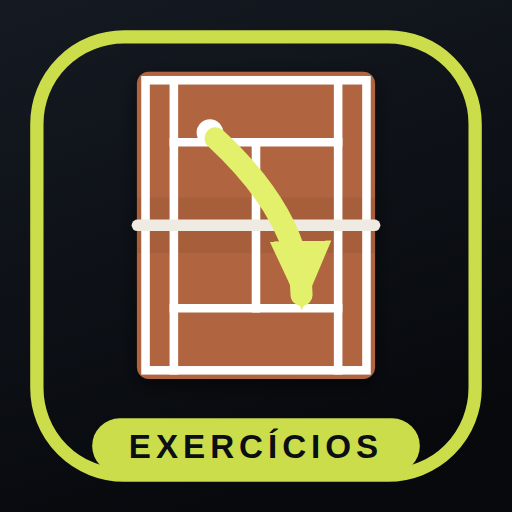
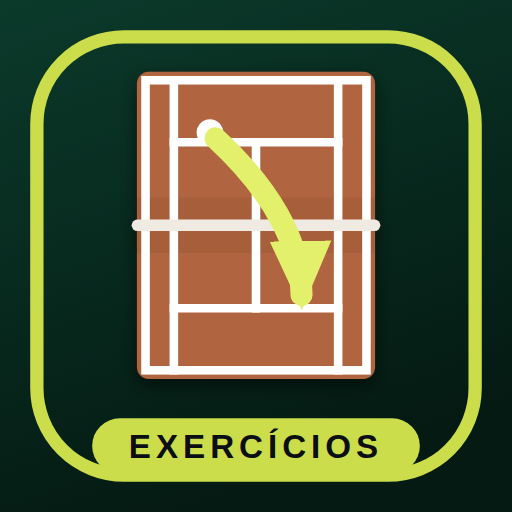
App de Exercicios no verde premium (tela, icone e abertura)
As cores do app passam para o verde premium da Gestao e do App Aluno: fundo
#06140F/#041A13, cartoes #072A1F/#0B3A2B, dourado #E8B83E e creme #EEF2E5.
O texto secundario sobe de .42 para .62 de opacidade (dava 3,3:1 sobre o
cartao, abaixo do minimo de 4,5:1); os chips de filtro e a busca ganham 40 px
de altura de toque. Icone com fundo verde (mesma moldura e pastilha limao) e
splash no mesmo verde. theme-color e manifest em #06140F. Cache v22.

A folha A4 nao muda: ela tem as cores proprias do modelo.

Claude-Session: https://claude.ai/code/session_014FKkHpNzg71Vb3bUZ4TcyT

Changed region(s): [[0.0, 0.0, 1.0, 0.5938]]

diff --git a/app-exercicios/index.html b/app-exercicios/index.html
@@ -5,7 +5,7 @@
 <meta name="viewport" content="width=device-width, initial-scale=1.0, viewport-fit=cover">
 <title>Banco de Exercícios JV · Da Base ao Topo</title>
 <meta name="description" content="Banco de exercícios da metodologia Da Base ao Topo: filtra por tema do mês, nível do aluno, bloco da aula e necessidade específica — e monta o plano de aula.">
-<meta name="theme-color" content="#102438">
+<meta name="theme-color" content="#06140F">
 <!-- Ferramenta interna do professor, não página de venda: fora do Google.
      O conteúdo do banco é o miolo da formação (produto pago) — ver LEIA-ME.md. -->
 <meta name="robots" content="noindex,nofollow">
@@ -32,11 +32,14 @@
 <meta name="apple-mobile-web-app-title" content="Exercícios JV">
 <style>
 :root{
-  --navy:#102438; --navy-2:#15304A; --navy-3:#1C3F5E; --deep:#0B1B2B;
-  --gold:#D8B45C; --gold-2:#C49A3F; --gold-soft:#E7CE93;
-  --cream:#F4EFE6; --ink:#21303D;
-  --muted:rgba(244,239,230,.62); --muted-2:rgba(244,239,230,.42);
-  --line:rgba(216,180,92,.22); --line-2:rgba(244,239,230,.12);
+  /* verde premium JV — o mesmo da Gestão e do App Aluno (fundo #06140F,
+     dourado #E8B83E). Os nomes das variáveis ficaram "navy" por história. */
+  --navy:#072A1F; --navy-2:#0B3A2B; --navy-3:#105039; --deep:#041A13;
+  --gold:#E8B83E; --gold-2:#C9982A; --gold-soft:#F2CF62;
+  --cream:#EEF2E5; --ink:#10261E;
+  /* texto secundário: .42 dava 3,3:1 sobre o cartão — abaixo do mínimo */
+  --muted:rgba(238,242,229,.74); --muted-2:rgba(238,242,229,.62);
+  --line:rgba(232,184,62,.24); --line-2:rgba(238,242,229,.14);
   --ok:#7FA650; --warn:#E0784A; --r:14px;
   --topo:env(safe-area-inset-top,0px); --base:env(safe-area-inset-bottom,0px);
 }
@@ -57,7 +60,7 @@ input,select{font:inherit}
 
 /* ---------- barra de cima ---------- */
 header.bar{
-  position:sticky;top:0;z-index:50;background:rgba(11,27,43,.97);
+  position:sticky;top:0;z-index:50;background:rgba(4,26,19,.97);
   backdrop-filter:saturate(140%) blur(10px);border-bottom:1px solid var(--line);
   padding-top:var(--topo);
 }
@@ -97,7 +100,7 @@ header.bar{
   padding:9px 16px;scrollbar-width:none;-webkit-overflow-scrolling:touch}
 .tira::-webkit-scrollbar{display:none}
 .tira.centro{max-width:900px;margin:0 auto}
-.chip{flex-shrink:0;padding:8px 14px;border-radius:999px;border:1px solid var(--line-2);
+.chip{flex-shrink:0;min-height:40px;padding:8px 14px;border-radius:999px;border:1px solid var(--line-2);
   font-size:13px;font-weight:600;color:var(--muted);white-space:nowrap;background:var(--navy-2);
   line-height:1.25;text-align:center}
 .chip:active{transform:scale(.96)}
@@ -109,7 +112,7 @@ header.bar{
 .chip.agora::after{content:"• agora";margin-left:6px;font-size:10px;font-weight:800;letter-spacing:.06em}
 
 .filtros{position:sticky;top:calc(58px + var(--topo));z-index:40;
-  background:rgba(16,36,56,.97);backdrop-filter:blur(8px);border-bottom:1px solid var(--line-2)}
+  background:rgba(7,42,31,.97);backdrop-filter:blur(8px);border-bottom:1px solid var(--line-2)}
 /* Painel de filtros aberto: a barra para de ser fixa. Fixa em cima, fixa em
    baixo e painel aberto nao cabem num celular pequeno — o primeiro exercicio
    fica entalado e o dedo nao alcanca. Aberta, ela rola embora. */
@@ -117,7 +120,7 @@ header.bar{
 .busca-linha{display:flex;gap:9px;padding:9px 16px 0;max-width:900px;margin:0 auto}
 .busca{flex:1;display:flex;align-items:center;gap:9px;background:var(--navy-2);
   border:1px solid var(--line-2);border-radius:12px;padding:0 13px;height:44px}
-.busca input{flex:1;background:none;border:none;color:var(--cream);font-size:15.5px;outline:none;min-width:0}
+.busca input{min-height:40px;flex:1;background:none;border:none;color:var(--cream);font-size:15.5px;outline:none;min-width:0}
 .busca input::placeholder{color:var(--muted-2)}
 .mais{height:44px;padding:0 15px;border-radius:12px;border:1px solid var(--line-2);
   background:var(--navy-2);font-size:13.5px;font-weight:700;color:var(--muted);white-space:nowrap}
@@ -219,7 +222,7 @@ header.bar{
 
 /* ---------- barra de baixo ---------- */
 .rodape{position:fixed;left:0;right:0;bottom:0;z-index:55;
-  background:rgba(11,27,43,.98);backdrop-filter:blur(10px);border-top:1px solid var(--line);
+  background:rgba(4,26,19,.98);backdrop-filter:blur(10px);border-top:1px solid var(--line);
   padding:10px 16px calc(10px + var(--base))}
 .rodape-in{max-width:900px;margin:0 auto;display:flex;gap:10px;align-items:center}
 .btn{display:inline-flex;align-items:center;justify-content:center;gap:8px;font-weight:800;
@@ -236,7 +239,7 @@ header.bar{
    endereco escondida, entao a folha passava por baixo da barra de baixo do
    navegador e o botao "por no plano" ficava fora do alcance do dedo. */
 .fundo{position:fixed;inset:0;height:100vh;height:100dvh;z-index:60;
-  background:rgba(6,14,23,.72);display:none;align-items:flex-end;justify-content:center}
+  background:rgba(2,12,8,.74);display:none;align-items:flex-end;justify-content:center}
 .fundo.aberto{display:flex}
 /* overscroll-behavior:contain — chegando no fim da folha, o arrasto para ali
    em vez de continuar rolando a lista atras dela. */
@@ -278,7 +281,7 @@ header.bar{
   padding-top:12px;border-top:1px solid var(--line-2)}
 
 /* ---------- card de treino: o desenho e o passo a passo ---------- */
-.qd-cx{border:1px solid var(--line);border-radius:13px;overflow:hidden;margin-bottom:16px;background:#0E2337}
+.qd-cx{border:1px solid var(--line);border-radius:13px;overflow:hidden;margin-bottom:16px;background:var(--navy-2)}
 .qd{display:block;width:100%}
 .qd-leg{display:flex;flex-wrap:wrap;gap:7px 13px;padding:9px 11px;background:var(--navy-2);
   font-size:10.5px;color:var(--muted);border-top:1px solid var(--line-2)}
@@ -295,7 +298,7 @@ header.bar{
 /* A frase que conta o que o desenho mostra. Existe para os 116 exercicios e
    estava so' no aria-label, invisivel para quem enxerga. */
 .qd-desc{font-size:14.5px;line-height:1.5;color:#F0E9DC;padding:12px;
-  background:rgba(216,180,92,.08);border-top:1px solid var(--line-2)}
+  background:rgba(232,184,62,.07);border-top:1px solid var(--line-2)}
 .qd-nota{font-size:12.5px;color:var(--muted);padding:9px 11px;background:var(--deep);
   border-top:1px solid var(--line-2);line-height:1.45}
 

diff --git a/ferramentas/gerar-icone-exercicios.js b/ferramentas/gerar-icone-exercicios.js
@@ -3,9 +3,10 @@
    Por que existe: os apps da JV usam todos o mesmo logo, e na tela de inicio
    do celular viram tres icones iguais. Este aqui se diferencia pelo ASSUNTO —
    a quadra de saibro vista de cima, com o trajeto da bola — que e' exatamente
-   a linguagem dos 116 desenhos do banco. A familia se mantem pelo preto, pelo
-   verde-limao da marca e pela pastilha com o nome embaixo — os tres detalhes
+   a linguagem dos desenhos do banco. A familia se mantem pelo verde-limao da
+   marca e pela pastilha com o nome embaixo — detalhes
    tirados do proprio icone da Gestao, que tem "GESTAO" escrito no mesmo lugar.
+   O fundo e' o verde premium do app (#041A13), o mesmo da tela.
 
    Uso, a partir da raiz do repositorio:
        node ferramentas/gerar-icone-exercicios.js
@@ -80,7 +81,7 @@ function svgIcone(S, mascara){
   return `<svg xmlns="http://www.w3.org/2000/svg" width="${S}" height="${S}" viewBox="0 0 ${S} ${S}">
     <defs>
       <linearGradient id="fundo" x1="0" y1="0" x2="0.35" y2="1">
-        <stop offset="0" stop-color="#151A22"/><stop offset="1" stop-color="#07090D"/>
+        <stop offset="0" stop-color="#0B3A2B"/><stop offset="1" stop-color="#041A13"/>
       </linearGradient>
       <marker id="pta" viewBox="0 0 10 10" refX="7" refY="5" markerWidth="3.5" markerHeight="3.5"
               orient="auto-start-reverse"><path d="M 0 1 L 9 5 L 0 9 z" fill="${LIMA_CLARO}"/></marker>

diff --git a/app-exercicios/quadra.js b/app-exercicios/quadra.js
@@ -909,7 +909,7 @@ function svgQuadra(fig, op){
       '<marker id="seta-mov" viewBox="0 0 10 10" refX="8" refY="5" markerWidth="' + (m * 0.9) + '" markerHeight="' + (m * 0.9) +
         '" orient="auto-start-reverse"><path d="M 0 1 L 9 5 L 0 9 z" fill="' + CQ.mov + '"/></marker>' +
       '<linearGradient id="ceu" x1="0" y1="0" x2="0" y2="1">' +
-        '<stop offset="0" stop-color="#13293D"/><stop offset="1" stop-color="#26404F"/></linearGradient>' +
+        '<stop offset="0" stop-color="#062C20"/><stop offset="1" stop-color="#0B3A2B"/></linearGradient>' +
       // a luz do chão: clara no meio (perto da rede), escura nas bordas
       // de leve: com a luz forte o desenho virava holofote, e o saibro das
       // bordas ficava quase preto

diff --git a/app-exercicios/sw-exercicios.js b/app-exercicios/sw-exercicios.js
@@ -4,7 +4,7 @@
    não carrega biblioteca de fora e não tem dado de aluno na nuvem. Os favoritos
    e o plano de aula ficam no próprio aparelho (localStorage).
    Por que importa: quadra de saibro com sinal ruim é a regra, não a exceção. */
-const CACHE = 'jv-exercicios-v21';   /* sobe a cada mudanca de tela: o v2 e' apagado no activate */
+const CACHE = 'jv-exercicios-v22';   /* sobe a cada mudanca de tela: o v2 e' apagado no activate */
 const SHELL = ['./', './exercicios.js', './quadra.js', './manifest-exercicios.webmanifest',
                './jv-icone-exercicios-192.png',
                /* a letra da folha A4: sem ela, offline, a folha sai na fonte do

diff --git a/ferramentas/gerar-splash.py b/ferramentas/gerar-splash.py
@@ -9,7 +9,7 @@
 
    Uso:
        python3 ferramentas/gerar-splash.py app-exercicios/jv-icone-exercicios.png \\
-           app-exercicios splash-exercicios --fundo "#102438"
+           app-exercicios splash-exercicios --fundo "#06140F"
 
    Imprime no fim o bloco de <link> pronto para colar no <head>.
 """
